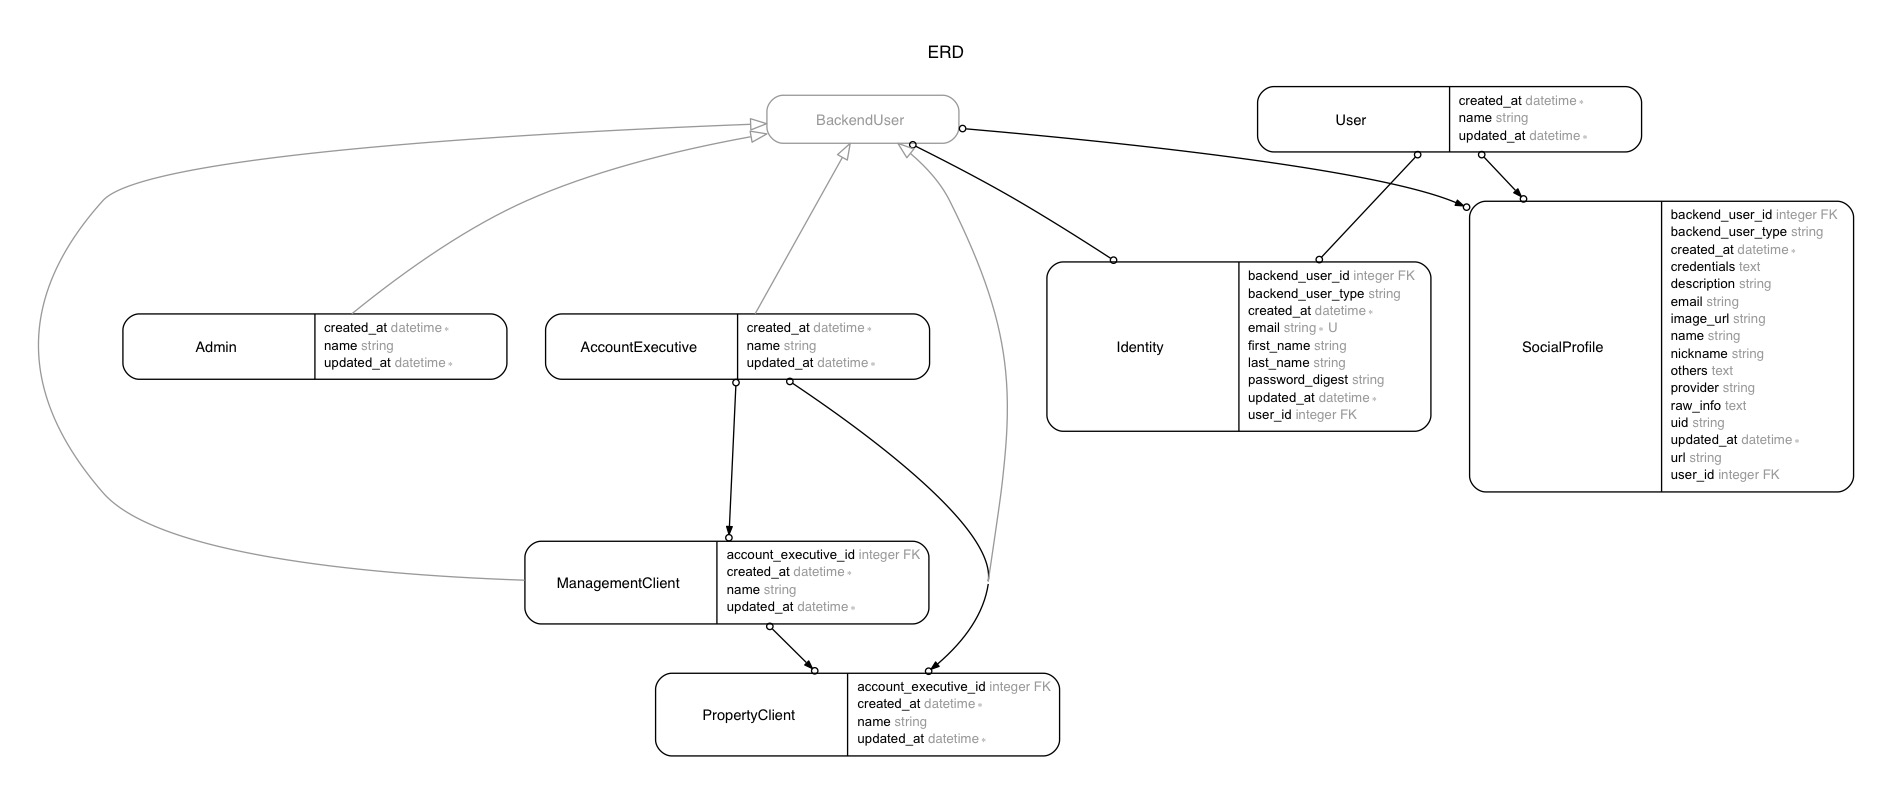
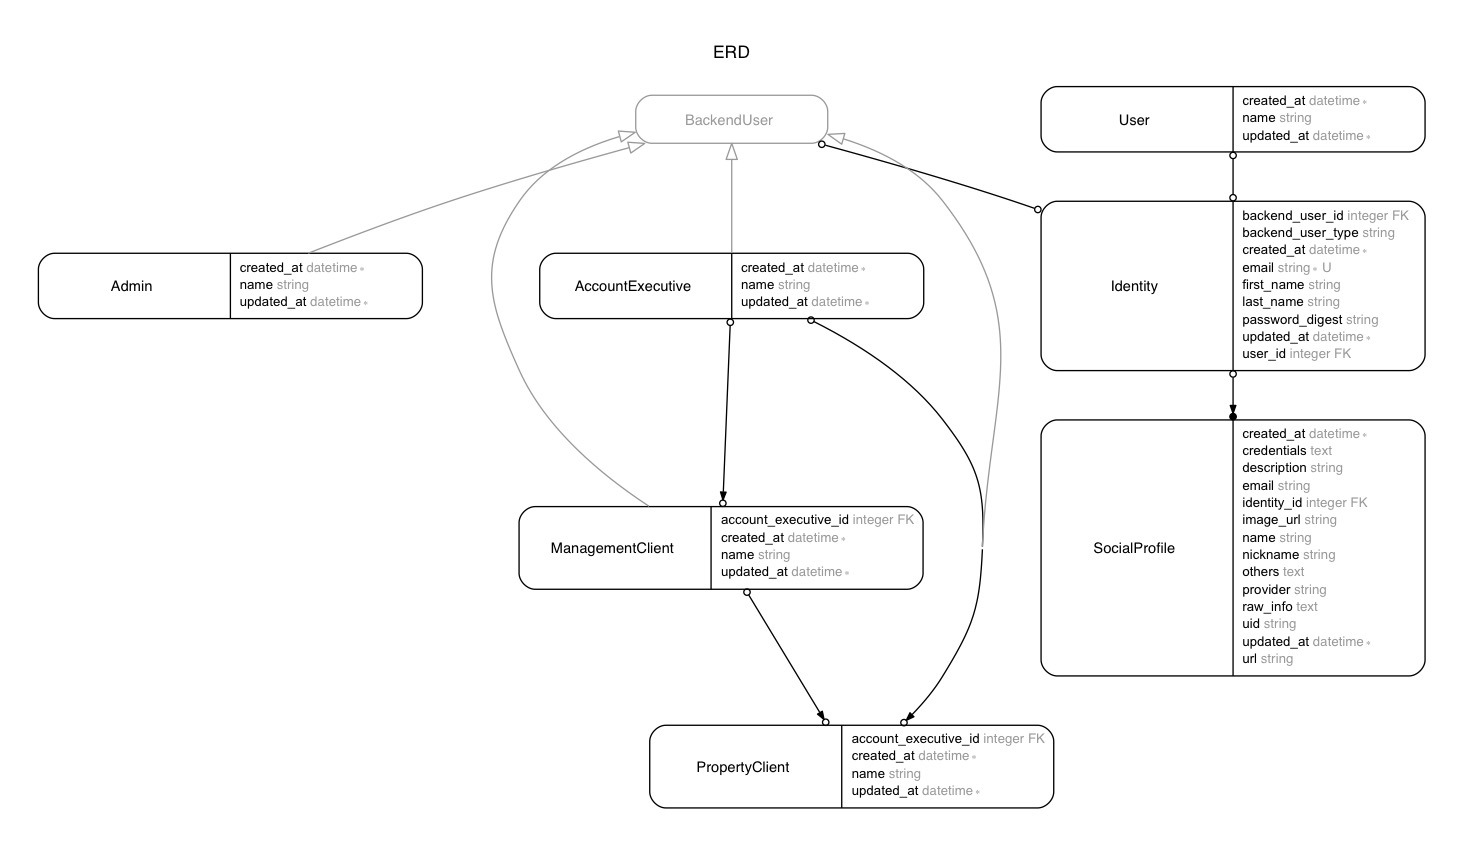
Add omniauth

diff --git a/app/models/social_profile.rb b/app/models/social_profile.rb
@@ -1,37 +1,36 @@
 class SocialProfile < ApplicationRecord
-  belongs_to :backend_user, polymorphic: true, optional: true
-  belongs_to :user,                            optional: true
+  belongs_to :identity
 
   store      :others
 
-  # validates_uniqueness_of :uid, scope: :provider
-  #
-  # # Returns a SocialProfile object that corresponds to the specified data.
-  # def self.find_or_create_from_oauth(auth)
-  #   find_or_create_by(uid: auth.uid, provider: auth.provider).tap do |profile|
-  #     profile.save_oauth_data(auth)
-  #   end
-  # end
-  #
-  # def save_oauth_data(auth)
-  #   # Create params in correct format, then update the profile.
-  #   self.update_attributes(params_from_oauth(auth)) if valid_oauth?(auth)
-  # end
-  #
-  # def associate_with_user(user)
-  #   # NOTE: Profile user and the specified user must match.
-  #   self.update!(user_id: user.id) unless self.user == user
-  # end
-  #
-  # private
-  #
-  #   # Returns params based on the specified authentication data.
-  #   def params_from_oauth(auth)
-  #     class_name = "#{auth['provider']}".classify  # Facebook, Twitter etc.
-  #     "SocialProfileParams::#{class_name}".constantize.new(auth).params
-  #   end
-  #
-  #   def valid_oauth?(auth)
-  #     (self.provider.to_s == auth['provider'].to_s) && (self.uid == auth['uid'])
-  #   end
+  validates_uniqueness_of :uid, scope: :provider
+
+  # Returns a SocialProfile object that corresponds to the specified data.
+  def self.find_or_create_from_omniauth(auth)
+    find_or_create_by(uid: auth.uid, provider: auth.provider).tap do |profile|
+      profile.save_omniauth_info(auth)
+    end
+  end
+
+  def save_omniauth_info(auth)
+    # Create params in correct format, then update the profile.
+    self.update_attributes(params_from_omniauth(auth)) if valid_omniauth?(auth)
+  end
+
+  def save_with_identity(identity)
+    # NOTE: Profile identity and the specified identity must match.
+    self.update!(identity_id: identity.id) unless self.identity == identity
+  end
+
+  private
+
+    # Returns params based on the specified authentication data.
+    def params_from_omniauth(auth)
+      class_name = "#{auth['provider']}".classify  # Facebook, Twitter etc.
+      "SocialProfileParams::#{class_name}".constantize.new(auth).params
+    end
+
+    def valid_omniauth?(auth)
+      (self.provider.to_s == auth['provider'].to_s) && (self.uid == auth['uid'])
+    end
   end

diff --git a/app/models/identity.rb b/app/models/identity.rb
@@ -27,10 +27,46 @@ class Identity < ApplicationRecord
 
   belongs_to :backend_user, polymorphic: true, optional: true
   belongs_to :user,                            optional: true
+  has_many :social_profiles
 
   # Returns the associated user if it exists. Otherwise creates and persists a new user.
   def user
     super || create_user
   end
 
+  class << self
+
+    # Makes current_identity available via Identity.
+    # Set up in ApplicationController.
+    def current_identity=(identity)
+      Thread.current[:current_identity] = identity
+    end
+
+    # References current_identity via Identity.
+    def current_identity
+      Thread.current[:current_identity]
+    end
+
+    def from_omniauth(auth)
+
+      # Search for the identity based on the authentication data.
+      # Obtain a SocialProfile object that corresponds to the authentication data.
+      profile = SocialProfile.find_or_create_from_omniauth(auth)
+
+      # Obtain identity with the following precedence.
+      # 1. Logged-in user's identity
+      # 2. Identity with a registered profile.
+      identity = current_identity || profile.identity
+
+      # 3. Identity with verified email from omniauth.
+      unless identity
+        if auth.info.email
+          identity  = Identity.where(email: auth.info.email).first
+          profile.save_with_identity(identity)
+        end
+      end
+
+      identity
+    end
+  end
 end

diff --git a/app/helpers/sessions_helper.rb b/app/helpers/sessions_helper.rb
@@ -12,9 +12,6 @@ module SessionsHelper
   end
 
   def current_backend_user
-
-    binding.pry
-
     @current_backend_user ||= (current_identity&.backend_user)
   end
 
@@ -39,20 +36,22 @@ module SessionsHelper
   end
 
   def link_to_user_page(text, options={})
-    url = root_url
     url = if current_user
-      user_url(current_user)
-    elsif current_backend_user
-      user_url(current_backend_user.identity.user)
-    end
-    link_to text, url
+            user_url(current_user)
+          elsif current_backend_user
+            user_url(current_backend_user.identity.user)
+          else
+            root_url
+          end
+    link_to(text, url)
   end
 
   def link_to_backend_user_page(text, options={})
-    url = root_url
     url = if current_backend_user
-      send("#{current_backend_user.class.name.underscore}_path", current_identity.backend_user_id)
-    end
-    link_to text, url
+            send("#{current_backend_user.class.name.underscore}_path", current_identity.backend_user_id)
+          else
+            root_url
+          end
+    link_to(text, url)
   end
 end

diff --git a/app/controllers/sessions_controller.rb b/app/controllers/sessions_controller.rb
@@ -4,6 +4,21 @@ class SessionsController < ApplicationController
   end
 
   def create
+
+    if request.env['omniauth.auth']
+      ap request.env['omniauth.auth']
+
+      begin
+        identity = Identity.from_omniauth(request.env['omniauth.auth'])
+        session[:user_id] = identity.id
+        flash[:success] = "Successfully authenticated with #{request.env['omniauth.auth']["provider"].capitalize}"
+      rescue
+        flash[:warning] = "There was an error while trying to authenticate you."
+      end
+      redirect_to(root_path) and return
+    end
+
+
     email, password = session_params.slice(:email, :password).values
 
     identity = Identity.find_by(email: email.downcase)
@@ -35,10 +50,4 @@ class SessionsController < ApplicationController
     flash[:notice] = "You have successfully logged out."
     redirect_to root_url
   end
-
-  private
-
-    def session_params
-      params[:session].permit(:email, :password)
-    end
 end

diff --git a/db/schema.rb b/db/schema.rb
@@ -70,14 +70,11 @@ ActiveRecord::Schema.define(version: 20161009010435) do
     t.text     "others"
     t.text     "credentials"
     t.text     "raw_info"
-    t.string   "backend_user_type"
-    t.integer  "backend_user_id"
-    t.integer  "user_id"
-    t.datetime "created_at",        null: false
-    t.datetime "updated_at",        null: false
-    t.index ["backend_user_type", "backend_user_id"], name: "index_social_profiles_on_backend_user_type_and_backend_user_id", using: :btree
+    t.integer  "identity_id"
+    t.datetime "created_at",  null: false
+    t.datetime "updated_at",  null: false
+    t.index ["identity_id"], name: "index_social_profiles_on_identity_id", using: :btree
     t.index ["provider", "uid"], name: "index_social_profiles_on_provider_and_uid", unique: true, using: :btree
-    t.index ["user_id"], name: "index_social_profiles_on_user_id", using: :btree
   end
 
   create_table "users", force: :cascade do |t|

diff --git a/db/seeds.rb b/db/seeds.rb
@@ -27,7 +27,7 @@ Identity.destroy_all
 
 # Create a registered user.
 user = User.create!(
-  name: "Masatoshi"
+  name: "Example user"
 )
 Identity.create!(
   user:                  user,
@@ -36,6 +36,17 @@ Identity.create!(
   password_confirmation: "password"
 )
 
+
+# Create a registered user.
+masatoshi = User.create!(
+  name: "Masatoshi"
+)
+Identity.create!(
+  user:                  user,
+  email:                 "nishiguchi.masa@gmail.com",
+  password:              "password",
+  password_confirmation: "password"
+)
 
 # ---
 # General backend users

diff --git a/config/initializers/omniauth.rb b/config/initializers/omniauth.rb
@@ -1,0 +1,11 @@
+Rails.application.config.middleware.use OmniAuth::Builder do
+  provider :twitter,
+    Rails.application.secrets.twitter_key,
+    Rails.application.secrets.twitter_secret
+  provider :facebook,
+    Rails.application.secrets.facebook_key,
+    Rails.application.secrets.facebook_secret
+  provider :google_oauth2,
+    Rails.application.secrets.google_oauth2_key,
+    Rails.application.secrets.google_oauth2_secret
+end

diff --git a/db/migrate/20161009010435_create_social_profiles.rb b/db/migrate/20161009010435_create_social_profiles.rb
@@ -12,8 +12,7 @@ class CreateSocialProfiles < ActiveRecord::Migration[5.0]
       t.text :others
       t.text :credentials
       t.text :raw_info
-      t.references :backend_user, polymorphic: true, index: true
-      t.references :user,                            index: true
+      t.references :identity, index: true
 
       t.timestamps
     end

diff --git a/app/controllers/application_controller.rb b/app/controllers/application_controller.rb
@@ -2,4 +2,11 @@ class ApplicationController < ActionController::Base
   protect_from_forgery with: :exception
 
   include SessionsHelper
+
+  private
+
+    # Make current_identity accessible via Identity.
+    def set_current_identity
+      Identity.current_identity = current_identity
+    end
 end

diff --git a/config/routes.rb b/config/routes.rb
@@ -18,5 +18,5 @@ Rails.application.routes.draw do
   resources :property_clients, only: [:show]
 
   # # Omniauth
-  # get '/auth/:provider/callback', to: 'sessions#create'
+  get '/auth/:provider/callback', to: 'sessions#create'
 end

diff --git a/app/models/concerns/backend_user.rb b/app/models/concerns/backend_user.rb
@@ -3,7 +3,6 @@ module BackendUser
 
   included do
     has_one :identity, as: :backend_user
-    has_many :social_profiles, as: :backend_user
   end
 
 end

diff --git a/app/models/user.rb b/app/models/user.rb
@@ -10,5 +10,4 @@
 
 class User < ApplicationRecord
   has_one :identity
-  has_many :social_profiles
 end
